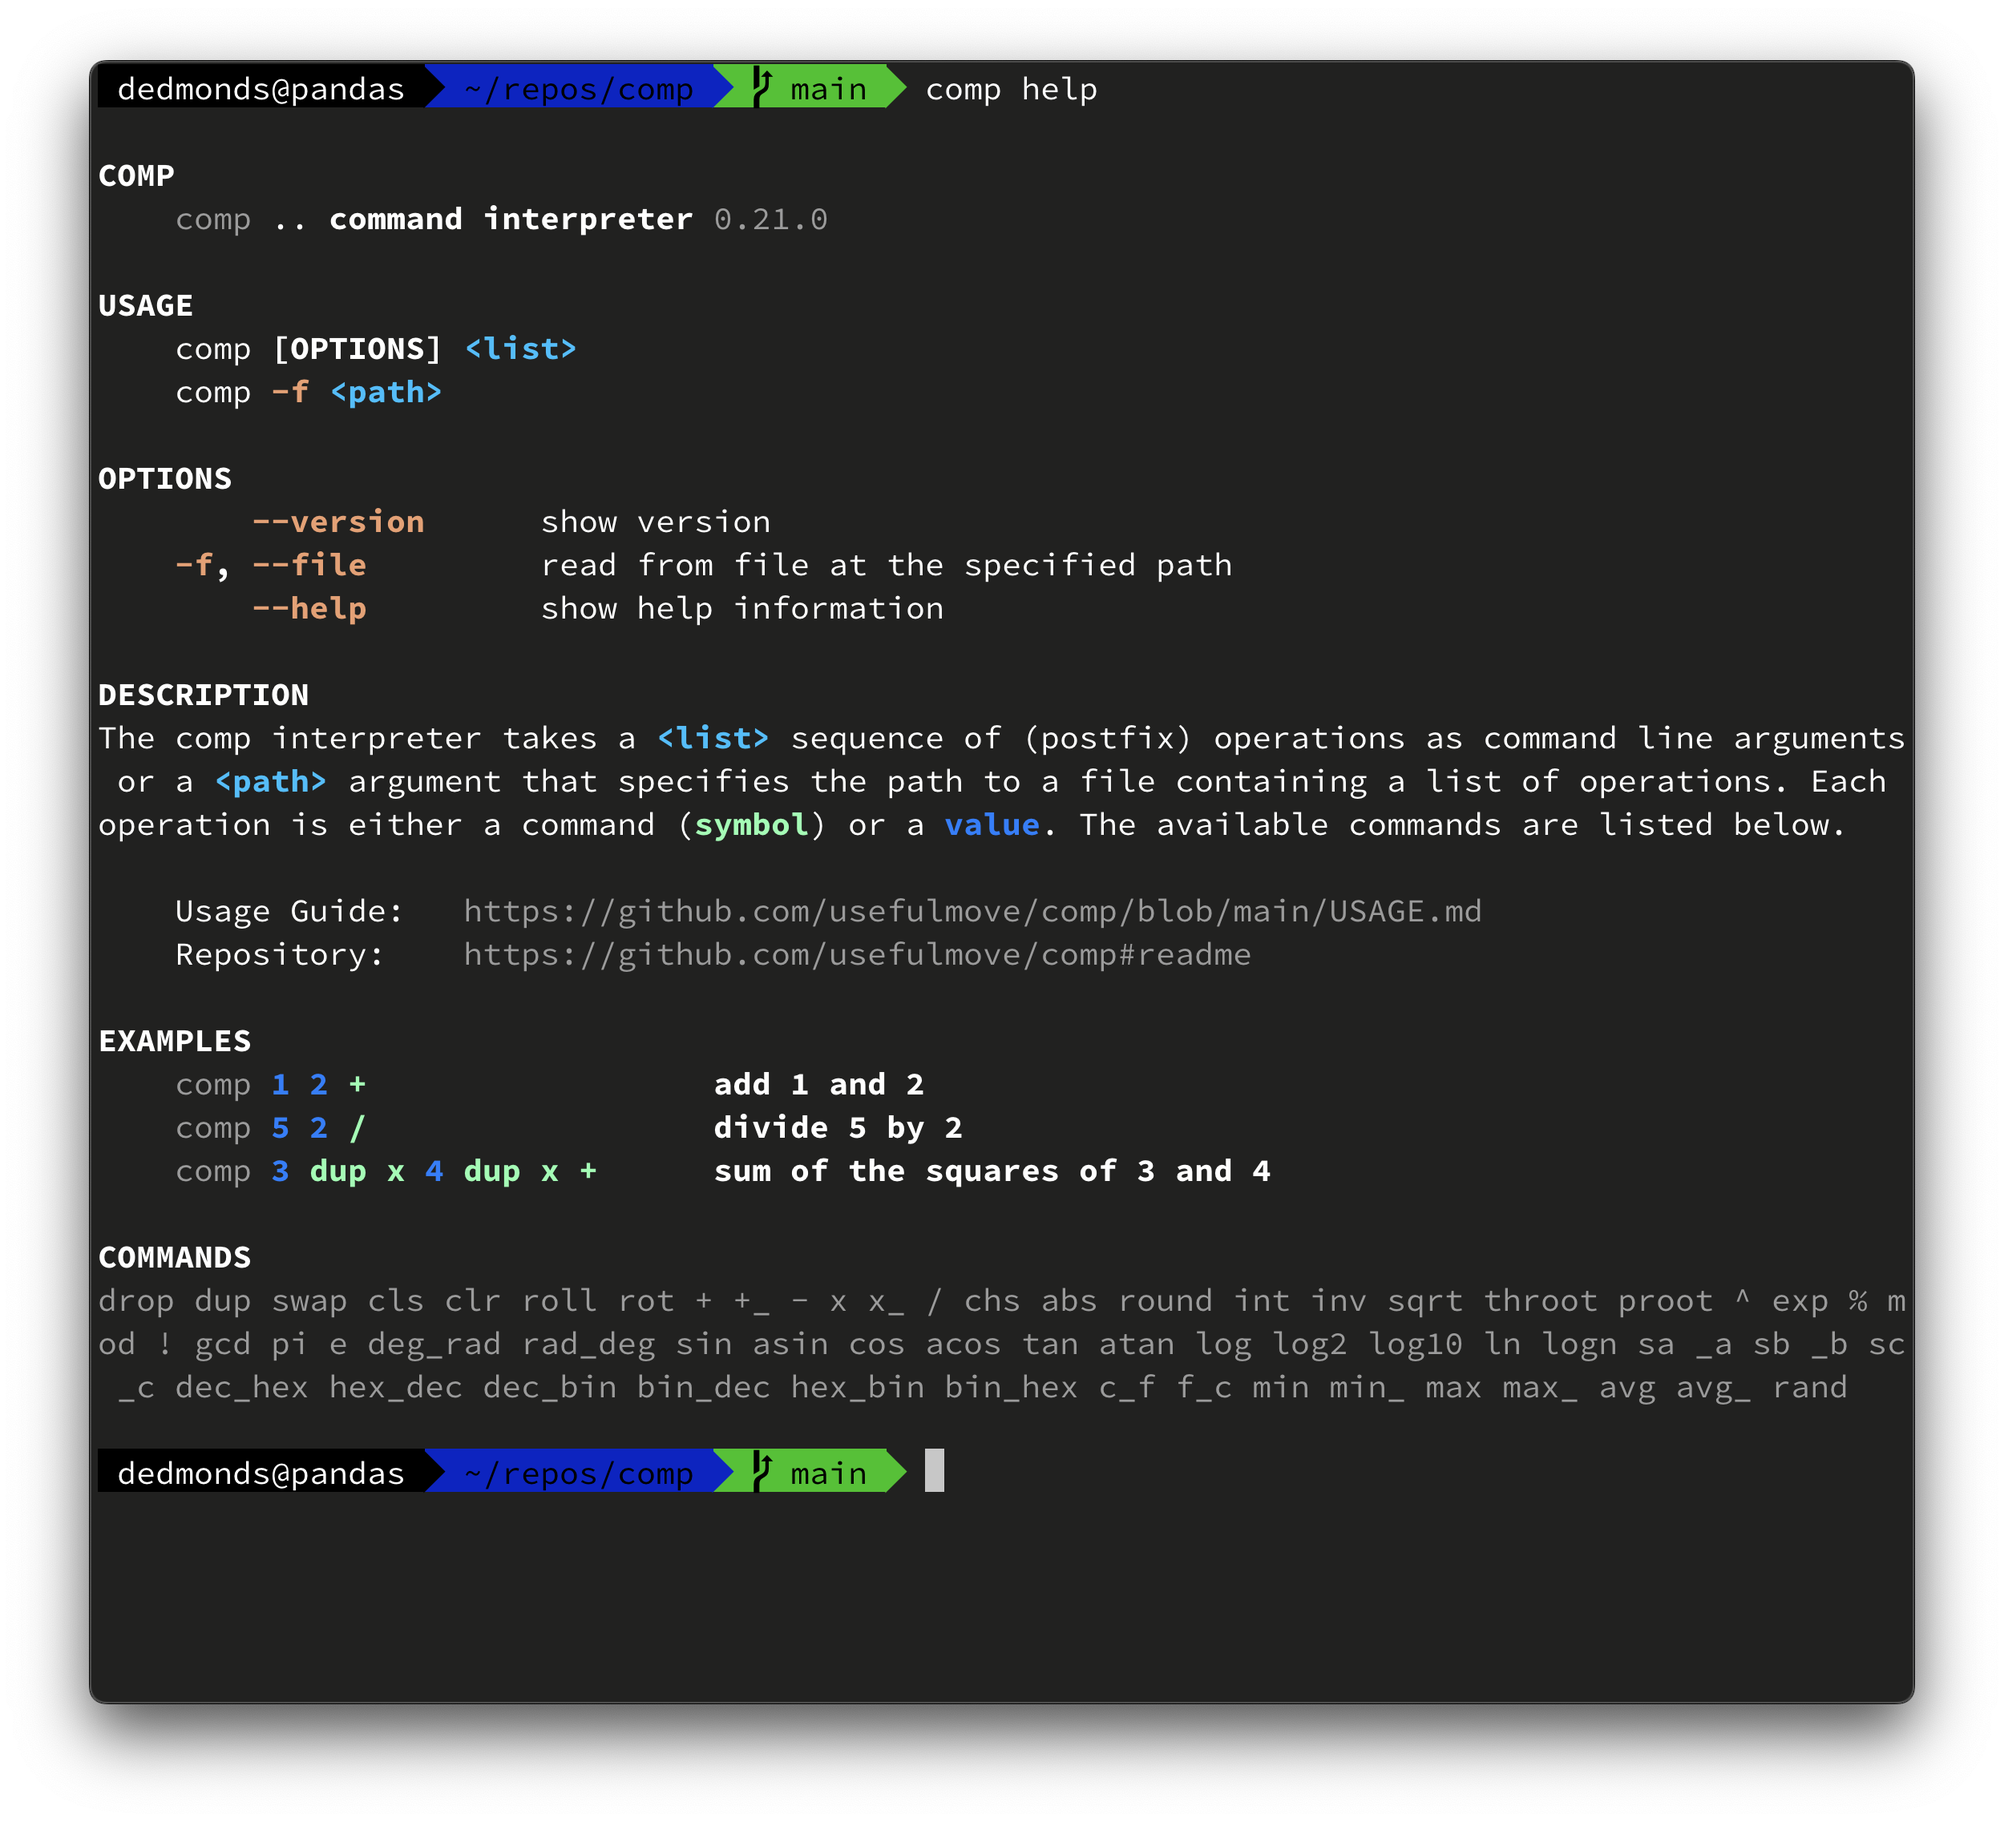
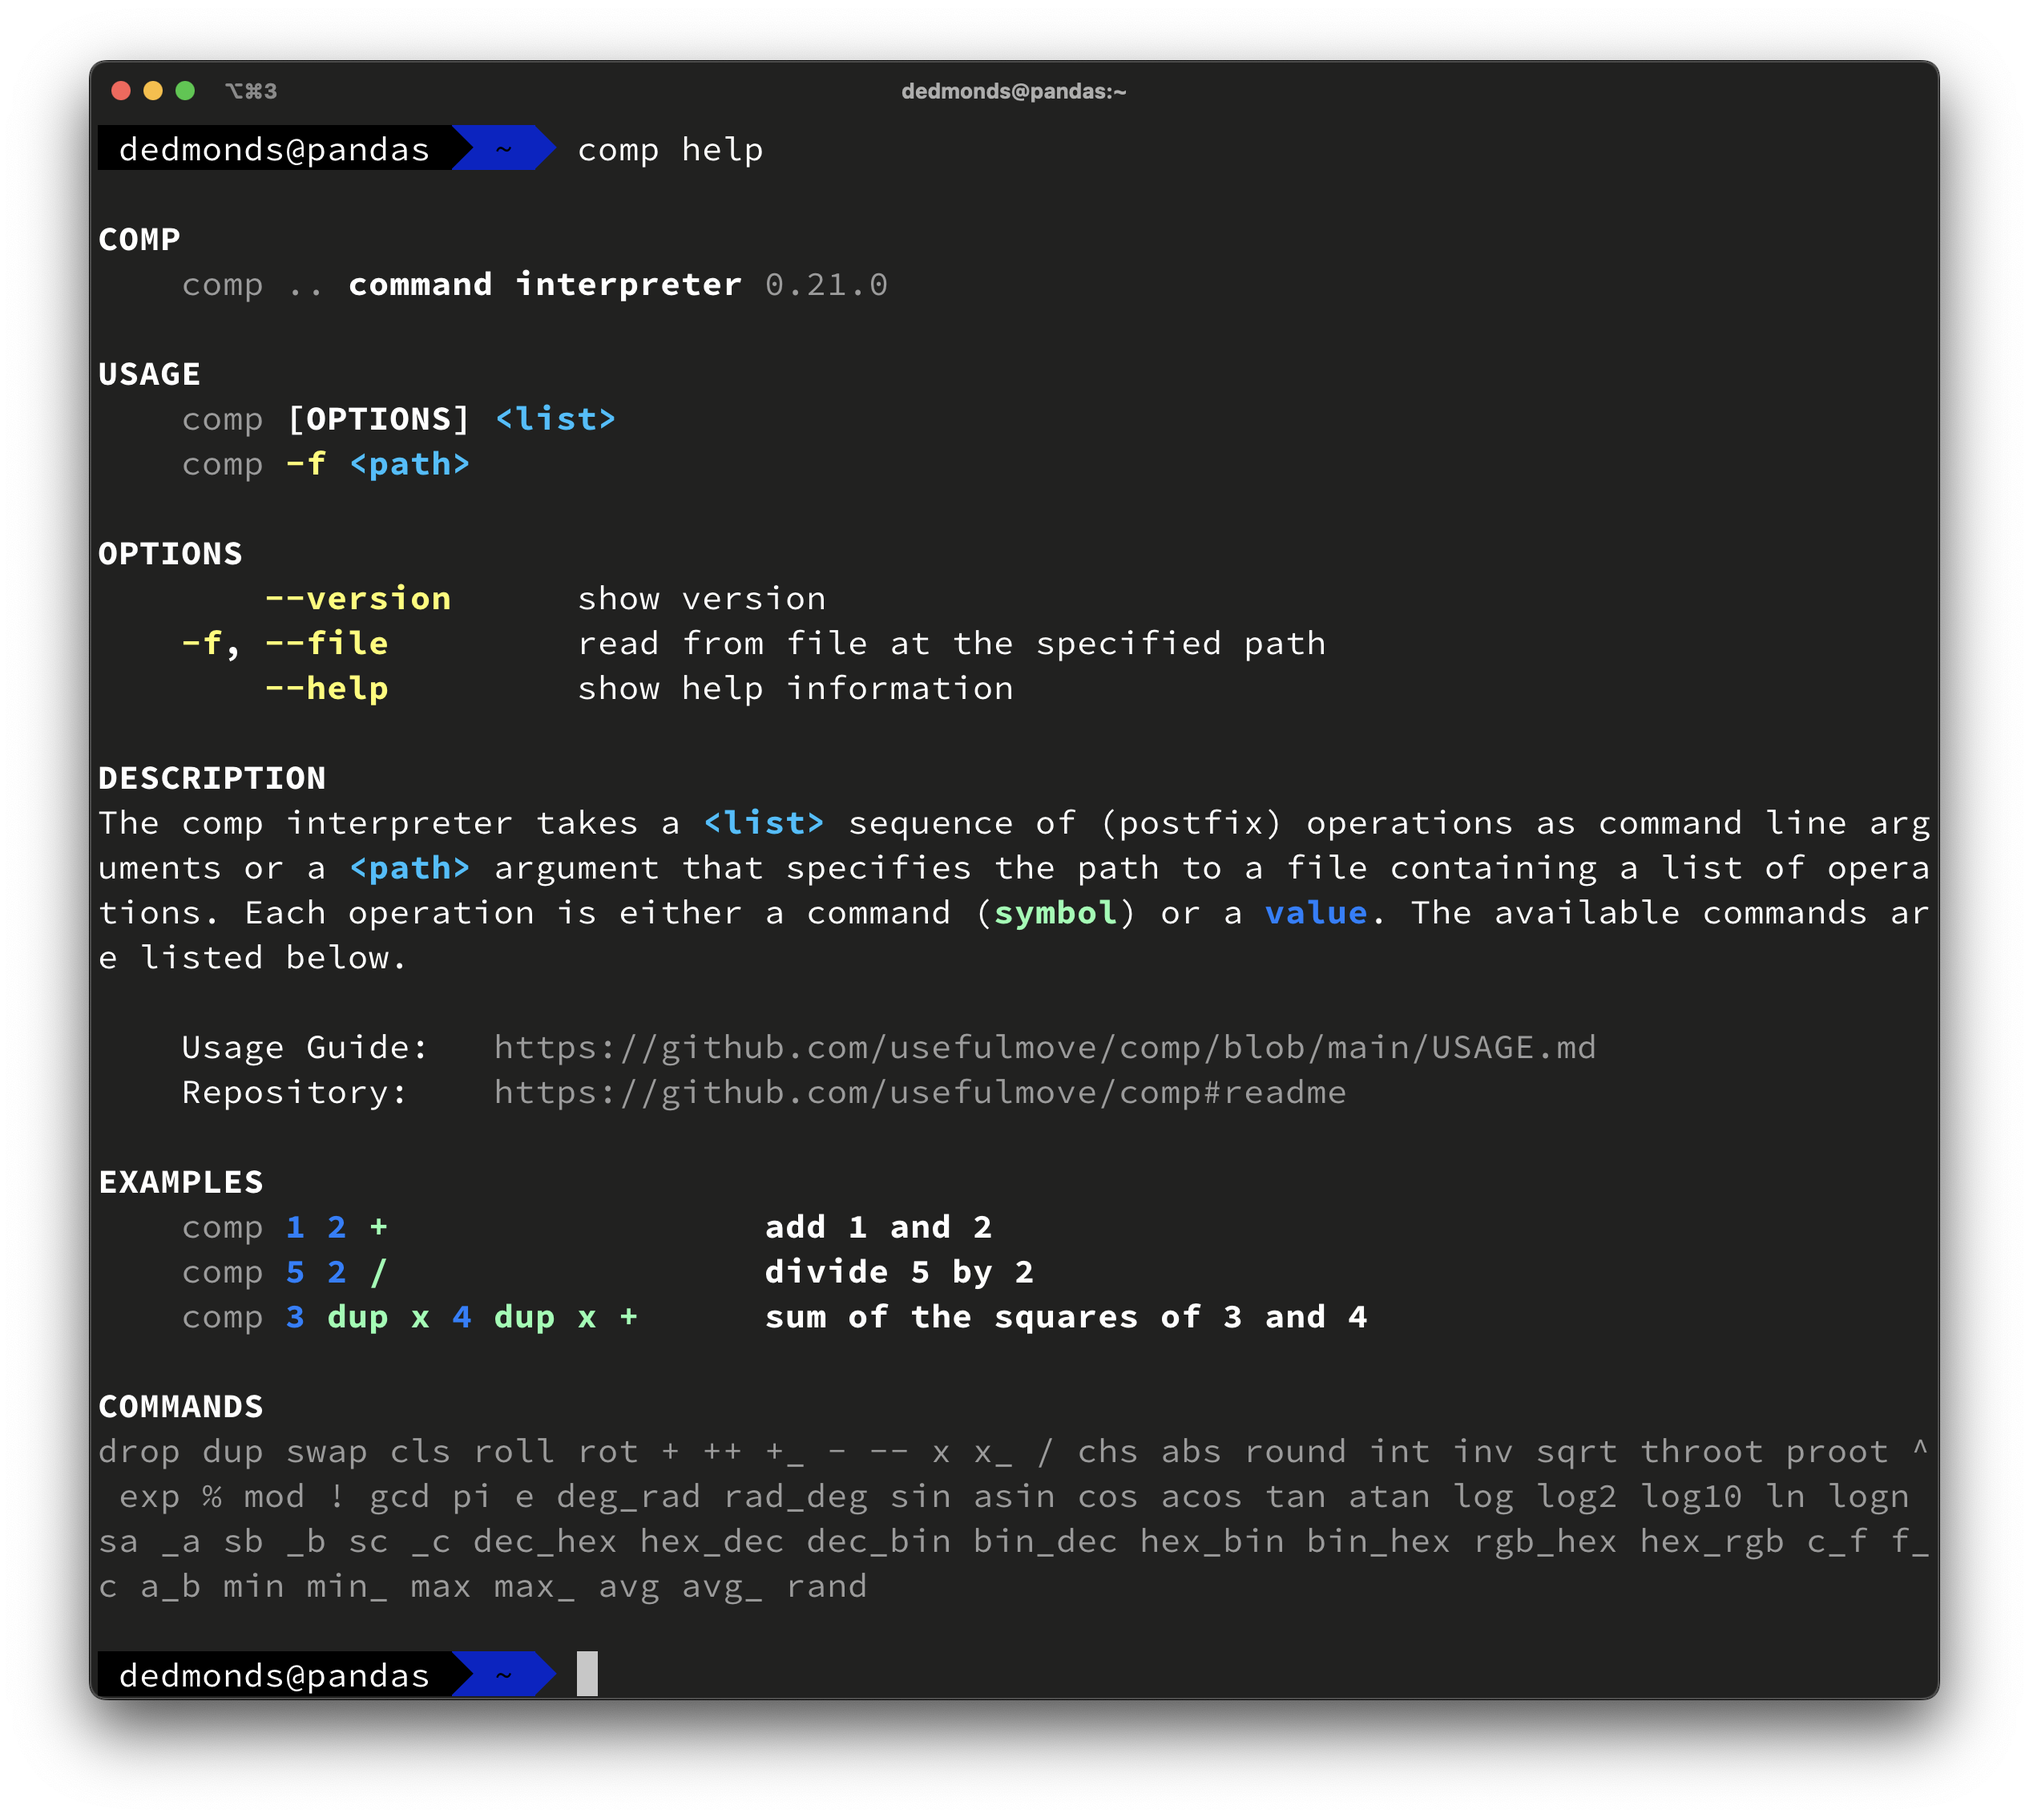
updated README.md to reflect updated stable version and usage screenshot

diff --git a/README.md b/README.md
@@ -2,7 +2,7 @@
 
 <img src="https://raw.githubusercontent.com/usefulmove/comp/main/assets/system-preferences-icon-64x64.png" align="right"/>
 
-![](https://img.shields.io/badge/stable-0.20.5-success?style=for-the-badge)
+![](https://img.shields.io/badge/stable-0.21.0-success?style=for-the-badge)
 ![](https://img.shields.io/badge/license-MIT-informational?style=for-the-badge)
 
 * [Installation][2]
